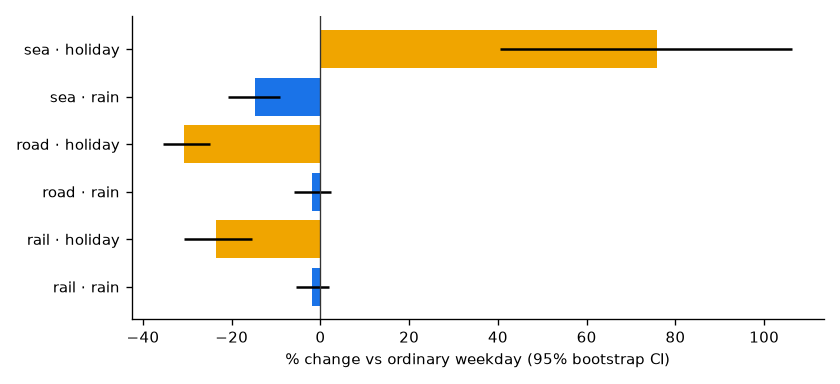
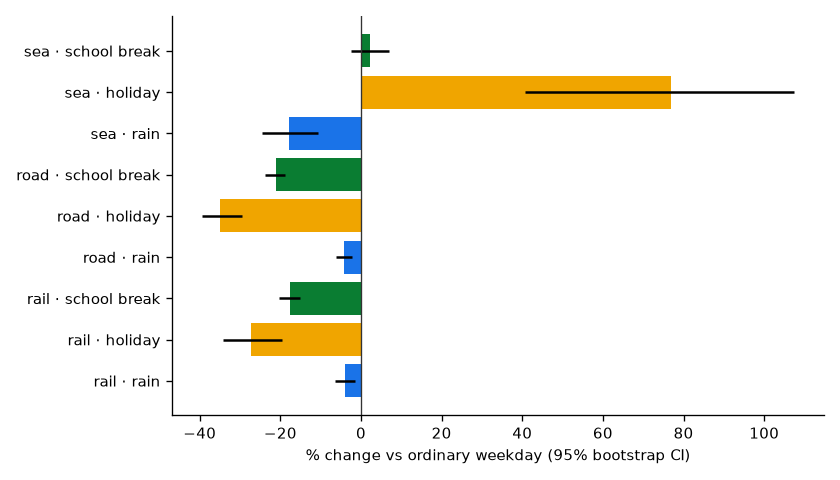
Update analysis reports [skip ci]

Changed region(s): [[0.0, 0.0312, 0.9905, 0.9688]]

diff --git a/reports/results.md b/reports/results.md
@@ -1,7 +1,7 @@
 # Results (İBB data, January–July 2024)
 
 Data: 15,336 hourly rows, 213 days, 1.43 billion recorded passengers (rail 625 M, road 769 M, sea 38 M).
-Weather: Open-Meteo hourly archive for central Istanbul. Holidays: `holidays` package (incl. eves).
+Weather: Open-Meteo hourly archive for central Istanbul. Holidays: `holidays` package (incl. eves). School breaks: MEB calendar (`SCHOOL_BREAKS`).
 
 ## Demand patterns
 
@@ -11,13 +11,13 @@ Weather: Open-Meteo hourly archive for central Istanbul. Holidays: `holidays` pa
 
 ## Statistical tests
 
-Working days only (Mon–Fri, excluding holiday eves). Rainy day = at least 2 mm of rain between 06:00 and 22:00; dry day = under 0.2 mm. Percentile bootstrap (5,000 resamples) and two-sided Mann-Whitney U test.
+Working days only (Mon–Fri, excluding holiday eves; rain and holiday tests also exclude school breaks). Rainy day = at least 2 mm of rain between 06:00 and 22:00; dry day = under 0.2 mm. Percentile bootstrap (5,000 resamples) and two-sided Mann-Whitney U test.
 
-| Mode | Rain effect | Public-holiday effect |
-|---|---|---|
-| rail | -1.8% (95% CI -5.4% to +1.9%, p=0.139, not significant; n=31 vs 84) | -23.5% (95% CI -30.7% to -15.4%, p=0.000, significant; n=10 vs 143) |
-| road | -1.9% (95% CI -5.9% to +2.3%, p=0.054, not significant; n=31 vs 84) | -30.8% (95% CI -35.5% to -25.0%, p=0.000, significant; n=10 vs 143) |
-| sea | -14.8% (95% CI -20.8% to -9.0%, p=0.000, significant; n=31 vs 84) | +75.8% (95% CI +40.4% to +106.3%, p=0.000, significant; n=10 vs 143) |
+| Mode | Rain effect | Public-holiday effect | School-break effect |
+|---|---|---|---|
+| rail | -4.0% (95% CI -6.4% to -1.5%, p=0.005, significant; n=22 vs 57) | -27.4% (95% CI -34.3% to -19.7%, p=0.000, significant; n=10 vs 102) | -17.6% (95% CI -20.3% to -15.2%, p=0.000, significant; n=41 vs 102) |
+| road | -4.3% (95% CI -6.2% to -2.3%, p=0.000, significant; n=22 vs 57) | -35.0% (95% CI -39.5% to -29.6%, p=0.000, significant; n=10 vs 102) | -21.2% (95% CI -23.8% to -18.8%, p=0.000, significant; n=41 vs 102) |
+| sea | -17.9% (95% CI -24.7% to -10.8%, p=0.000, significant; n=22 vs 57) | +76.9% (95% CI +40.8% to +107.4%, p=0.000, significant; n=10 vs 102) | +2.2% (95% CI -2.5% to +6.9%, p=0.323, not significant; n=41 vs 102) |
 
 ![Effects](figures/effects.png)
 
@@ -29,18 +29,18 @@ Expanding-window walk-forward validation, 4 folds × 14 days. All lag features e
 
 | model                      |     MAE |   sMAPE |   WAPE |   WAPE vs naive |
 |:---------------------------|--------:|--------:|-------:|----------------:|
-| XGBoost                    | 11025   |   32.1  |  10.04 |          -27.26 |
-| Gradient boosting          | 12328   |   36.06 |  11.23 |          -18.61 |
-| Ridge                      | 14715.8 |   47.5  |  13.47 |           -2.42 |
+| XGBoost                    | 11321.5 |   32.47 |  10.35 |          -25.01 |
+| Gradient boosting          | 11781.6 |   35.47 |  10.75 |          -22.09 |
+| Ridge                      | 14170.9 |   47.01 |  12.97 |           -6.05 |
 | Seasonal naive (last week) | 15109.4 |   23.39 |  13.8  |            0    |
 
 ### Road (bus, metrobus)
 
 | model                      |     MAE |   sMAPE |   WAPE |   WAPE vs naive |
 |:---------------------------|--------:|--------:|-------:|----------------:|
-| XGBoost                    | 11933   |   17.67 |   9.15 |          -30.11 |
-| Gradient boosting          | 13114.5 |   19.65 |  10.09 |          -22.9  |
-| Ridge                      | 16913   |   44.06 |  13    |           -0.69 |
+| Gradient boosting          | 11756.3 |   20.72 |   9.04 |          -30.99 |
+| XGBoost                    | 11785.6 |   22.16 |   9.07 |          -30.69 |
+| Ridge                      | 15979.2 |   42.3  |  12.27 |           -6.27 |
 | Seasonal naive (last week) | 17051.2 |   13.32 |  13.09 |            0    |
 
 ![Forecast](figures/forecast_rail.png)
